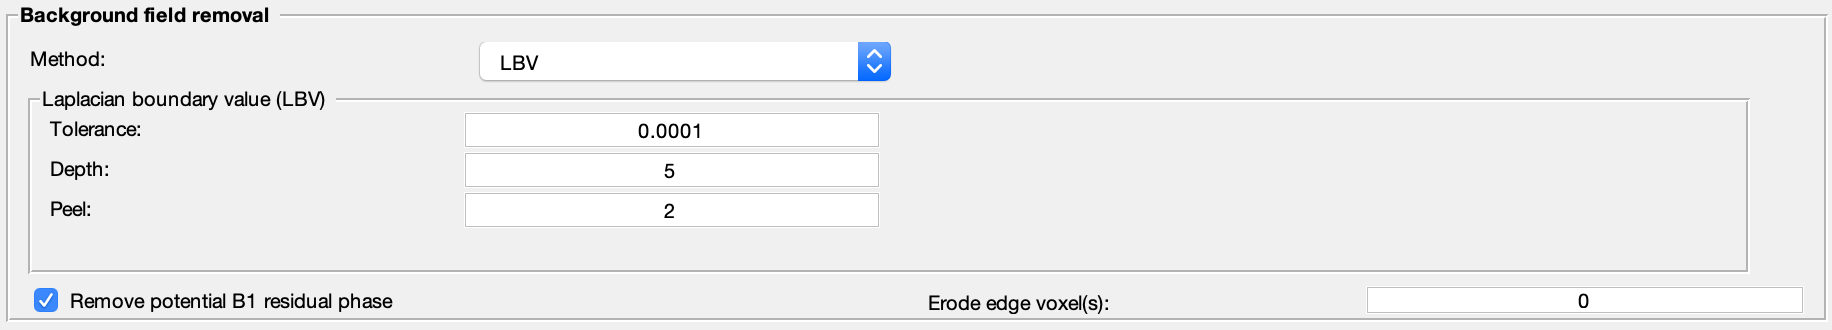
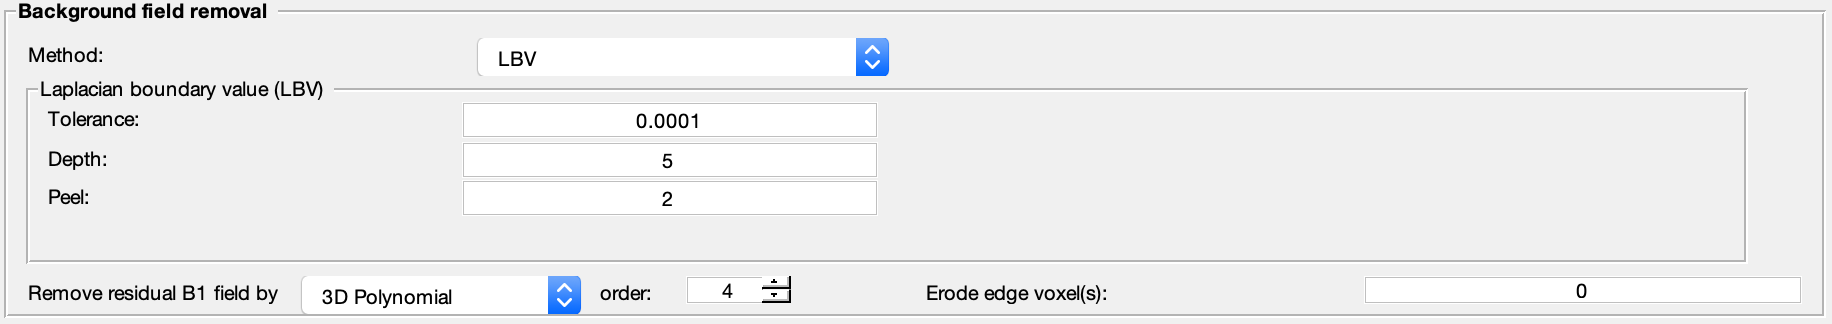
update

diff --git a/getting_started/Update-log.rst b/getting_started/Update-log.rst
@@ -1,0 +1,57 @@
+Update log
+==========
+
+0.8.0 (master)
+^^^^^^^^^^^^^^
+* New layout for input/output panel for data selection
+* New output config file, log file and error message file
+* New feature to load parameters in config file to the GUI
+* New option to save unwrapped echo phase
+* New option to exlcude unreliable voxels
+* New option to select reference tissue for QSM normalisation
+* Support the lastest version of MEDI toolbox (Jan 15, 2020)
+* Support bipolar readout correction for total field recovery with MEDI's non-linear fitting algorithm
+* Support extra brain extraction (FSL's BET) parameters from MEDI toolbox
+* New 'percentage' option for MEDI+0 algorithm
+* Support the lastest version of FANSI toolbox (commit dc68c306)
+* New option to use [weak harmonic regularisation](https://onlinelibrary.wiley.com/doi/full/10.1002/mrm.27483) with FANSI
+
+**Please upload the MEDI toolbox (Jan 15, 2020) and FANSI toolbox (commit dc68c306) to the lastest version for the best performance.**
+
+0.7.3 (20191109)
+^^^^^^^^^^^^^^^^
+* Support [nonlinear dipole inversion (NDI)](https://github.com/polakd/NDI_Toolbox) as external library
+* Support [SEGUE](https://xip.uclb.com/i/software/SEGUE.html) as external library
+
+0.7.2 (20190604)  
+^^^^^^^^^^^^^^^^
+* Support single-echo dataset
+* Bug fix with odd-number matrix dimension by zero-padding
+* Offload unuse variables to reduce memory usage
+* Bug fix for reading NIfTI when the rescale slope and intercept are not 1 and 0
+
+0.7.1 (20190509)
+^^^^^^^^^^^^^^^^
+* Support simple susceptibility weighted imaging (SWI) and susceptibility map weighted imaging (SMWI) as part of the GUI
+* resolved loading/saving NIfTI issue related to 0.7.0 update
+* DICOM input is deprecated: the only possible input is NIfTI data
+* fixed bug when running MEDI with CSF regularisation
+* fixed bug for single echo SWI
+* now support automatic magnitude and phase images detection with name containing string "mag" for magnitude image and "ph" for phase image  
+* fixed global phase offset with graph-cut phase unwrapping
+
+0.7.0 (20190412)
+^^^^^^^^^^^^^^^^
+* redesigned log file format; the algorithms and parameters being used are much clearer and neat than before (previous log file cannot work in this version)
+* resolved '.nii.nii' issue when using STI suite algorithms
+* resolved no. of iterations with FANSI does not change issue
+* resolved problematic QSM results with FANSI when an input matrix is an odd number
+* resolved excluded unreliable voxels issue when 3D best path algorithm doesn't work
+* improved build-in VSHARP results when there are masked voxels on the image edges
+* added image erosion function for background field removal algorithms
+* get header function is now compatible with the JSON files generated by dcm2niix and dicm2nii
+
+0.6.0 (20180901)  
+^^^^^^^^^^^^^^^^
+* updated diretcory structure
+* added options to select individual files  

diff --git a/index.rst b/index.rst
@@ -8,9 +8,9 @@ SEPIA Documentation
 
 Welcome to the SEPIA documentation! Here you can find all the documents related to SEPIA.
 
-**SEPIA** provides a graphical user interface in Matlab to build data processing pipelines related to quantitative susceptibility mapping (QSM).
+**SEPIA** provides a graphical user interface (GUI) in Matlab to build data processing pipelines related to quantitative susceptibility mapping (QSM).
 
-**SEPIA** is designed to solve two issues we encountered during my research in QSM:  
+**SEPIA** is designed to solve two issues we encountered in QSM:  
 
 1. Using algorithms from toolboxes developed by different research groups,
 2. Having a platform such that we can quickly adjust (and remember) parameters of each algorithm.  
@@ -22,7 +22,7 @@ The purpose of SEPIA is to provide a platform for easy access to different QSM p
 3. `FANSI toolbox <https://gitlab.com/cmilovic/FANSI-toolbox>`_  
 4. `SEGUE <https://xip.uclb.com/i/software/SEGUE.html>`_
 
-Through SEPIA we hope researchers who are not coming from the field could also be able to use QSM for their research. For those more experienced researchers, I also hope this tool can simplify your workflow.
+Through SEPIA we hope researchers who are not coming from the field could also be able to use QSM for their research. For those more experienced researchers, we also hope this tool can simplify your workflow.
 
 Table of Contents
 =================
@@ -36,6 +36,7 @@ Table of Contents
    getting_started/Data-preparation
    getting_started/Sepia-header
    getting_started/Sepia-output
+   getting_started/Update-log
 
 .. toctree::
    :maxdepth: 1

diff --git a/gui/Background-field-removal-standalone.rst b/gui/Background-field-removal-standalone.rst
@@ -75,9 +75,9 @@ Background field removal panel
 
   Select a background field removal method. The method parameters will be displayed on the method panel.
 
-- Remove potenital B1 residual phase
+- Remove residual B1 field by
 
-  Remove (not exactly) the harmonic fields contributions using 4th-order polynomial fitting on the local field. Useful when the data contains residual B1(+ &/ -) contributions.
+  Option to remove potential field contributions originated from B1 by polynomial fitting or spherical harmonic fit.
 
 - Erode edge voxel(s)  
 
@@ -86,7 +86,7 @@ Background field removal panel
 Others
 ^^^^^^
 
-.. image:: images/start_button.png
+.. image:: images/start_button_anno.png
 
 - Load config
 

diff --git a/gui/Sepia-One-stop-QSM-processing.rst b/gui/Sepia-One-stop-QSM-processing.rst
@@ -122,9 +122,9 @@ Background field removal panel
 
   Select a background field removal method. The method parameters will be displayed on the method panel.
 
-- Remove potenital B1 residual phase
+- Remove residual B1 field by
 
-  Remove (not exactly) the harmonic fields contributions using 4th-order polynomial fitting on the local field. Useful when the data contains residual B1(+ &/ -) contributions.
+  Option to remove potential field contributions originated from B1 by polynomial fitting or spherical harmonic fit.
 
 - Erode edge voxel(s)  
 
@@ -149,7 +149,7 @@ QSM panel
 Others
 ^^^^^^
 
-.. image:: images/start_button.png
+.. image:: images/start_button_anno.png
 
 - Load config
 

diff --git a/gui/Phase-unwrapping-standalone.rst b/gui/Phase-unwrapping-standalone.rst
@@ -111,7 +111,7 @@ Total field recovery and phase unwrapping panel
 Others
 ^^^^^^
 
-.. image:: images/start_button.png
+.. image:: images/start_button_anno.png
 
 - Load config
 

diff --git a/gui/QSM-standalone.rst b/gui/QSM-standalone.rst
@@ -87,7 +87,7 @@ QSM panel
 Others
 ^^^^^^
 
-.. image:: images/start_button.png
+.. image:: images/start_button_anno.png
 
 - Load config
 
